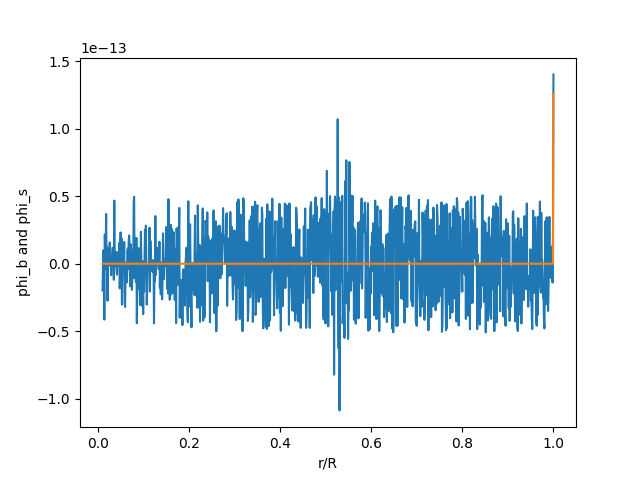
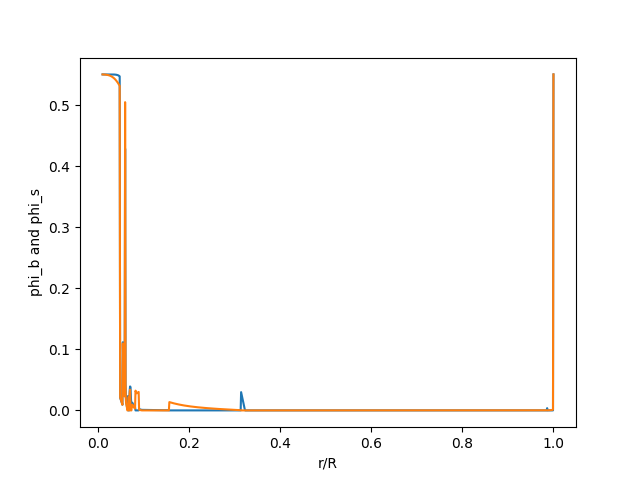
制約付き最適化として解かせてみたpattern

diff --git a/perform_analysis.py b/perform_analysis.py
@@ -42,6 +42,27 @@ airfoil_cl = airfoil[:, 3]
 airfoil_cd = airfoil[:, 2]
 airfoil_cl = np.interp(alpha, airfoil_alpha, airfoil_cl)
 airfoil_cd = np.interp(alpha, airfoil_alpha, airfoil_cd)
+# plot cl ,cd - aoa, beta,c_R - r_R
+plt.plot(alpha, airfoil_cl)
+plt.xlabel('alpha')
+plt.ylabel('cl')
+plt.savefig('./debug/cl.png')
+plt.clf()
+plt.plot(alpha, airfoil_cd)
+plt.xlabel('alpha')
+plt.ylabel('cd')
+plt.savefig('./debug/cd.png')
+plt.clf()
+plt.plot(r_R, c_R)
+plt.xlabel('r/R')
+plt.ylabel('c_R')
+plt.savefig('./debug/c_R.png')
+plt.clf()
+plt.plot(r_R, beta)
+plt.xlabel('r/R')
+plt.ylabel('beta')
+plt.savefig('./debug/beta.png')
+plt.clf()
 
 # def equation(v_dash):
 #     aoa = beta - np.arctan(x * R / r * (1 + 1/2 * v_dash / V))
@@ -55,14 +76,28 @@ solution = np.zeros((len(r_R), 2))
 
 # r_Rと同じ要素数の二次元配列solutionを作成
 solution = np.zeros((len(r_R), 2))
-# solu = np.zeros_like(r_R)  # v_dashを初期化
+
+# for i in range(len(r_R)):
+
+#     def equations(vars):
+#         phi_b, phi_s = vars
+#         w =  (math.sin(phi_b) - V) / math.cos(phi_b)
+#         aoa = beta[i] - phi_b*180/math.pi
+#         cl = np.interp(aoa, alpha, airfoil_cl)
+#         W = (w*math.cos(phi_b) + V) / math.cos(phi_b)
+#         dl = 1/2 * rho * W**2 * c_R[i] * cl
+#         eq1 = (math.sin(phi_b) - V) / math.cos(phi_b) - (math.sin(phi_s) - V) / math.cos(phi_s)
+#         eq2 = rho * (omega*r_R[i]*R - w*math.sin(phi_b)) / math.cos(phi_b) * 2 * math.pi / B * r_R[i] * R * 0.5*w * math.sin(phi_s) * F[i] - dl
+#         return [eq1, eq2]
+
+#     solution[i] = fsolve(equations, (1, 1))
 
 for i in range(len(r_R)):
 
     def equations(vars):
         phi_b, phi_s = vars
         w =  (math.sin(phi_b) - V) / math.cos(phi_b)
-        aoa = beta[i] - phi_b
+        aoa = beta[i] - phi_b*180/math.pi
         cl = np.interp(aoa, alpha, airfoil_cl)
         W = (w*math.cos(phi_b) + V) / math.cos(phi_b)
         dl = 1/2 * rho * W**2 * c_R[i] * cl
@@ -70,8 +105,24 @@ for i in range(len(r_R)):
         eq2 = rho * (omega*r_R[i]*R - w*math.sin(phi_b)) / math.cos(phi_b) * 2 * math.pi / B * r_R[i] * R * 0.5*w * math.sin(phi_s) * F[i] - dl
         return [eq1, eq2]
 
-    solution[i] = fsolve(equations, (1, 1))
+    def objective(vars):
+        eqs = equations(vars)
+        return eqs[0]**2 + eqs[1]**2  # 残差の二乗和を最小化
 
+    # 制約条件: 0 <= phi_b, phi_s <= 90度
+    constraints = [{'type': 'ineq', 'fun': lambda vars: vars[0]},            # phi_b >= 0
+                   {'type': 'ineq', 'fun': lambda vars: np.pi/2 - vars[0]},  # phi_b <= 90度
+                   {'type': 'ineq', 'fun': lambda vars: vars[1]},            # phi_s >= 0
+                   {'type': 'ineq', 'fun': lambda vars: np.pi/2 - vars[1]}]  # phi_s <= 90度
+
+    # 初期推定値
+    initial_guess = np.radians([0.6, 0.5])
+
+    # minimizeを使って最適化
+    result = minimize(objective, initial_guess, constraints=constraints)
+
+    # 解を保存
+    solution[i] = result.x
 # convert to degree and print solution
 phi_b = solution[:, 0] * 180 / math.pi
 phi_s = solution[:, 1] * 180 / math.pi
